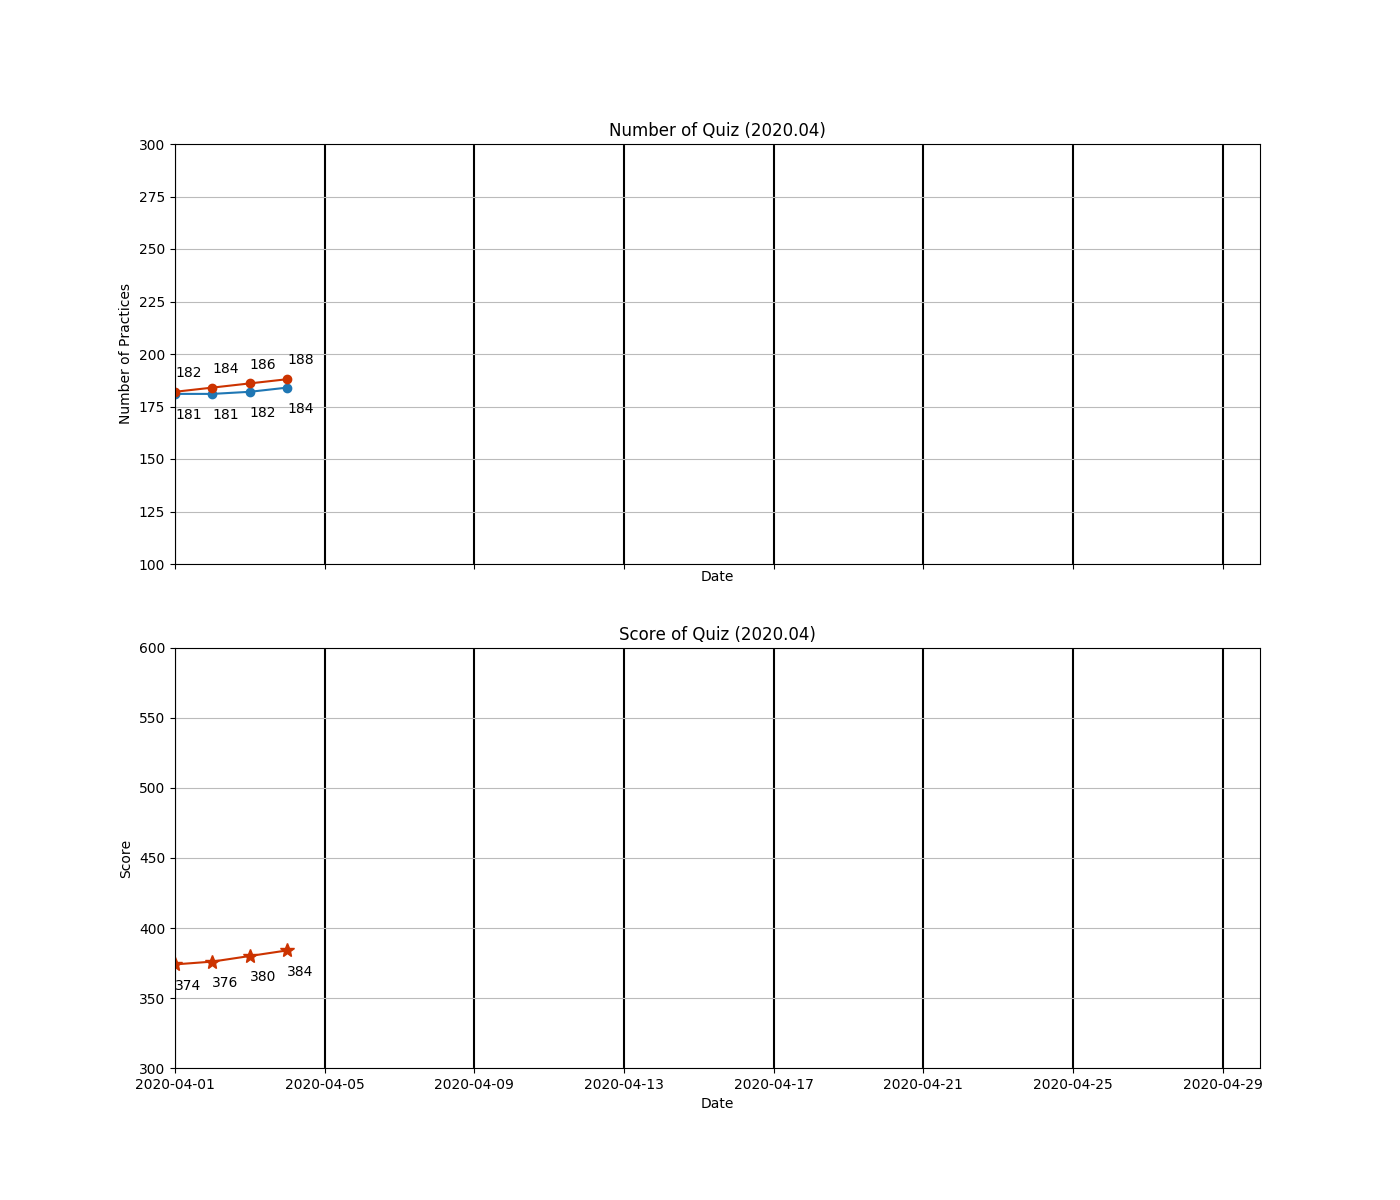
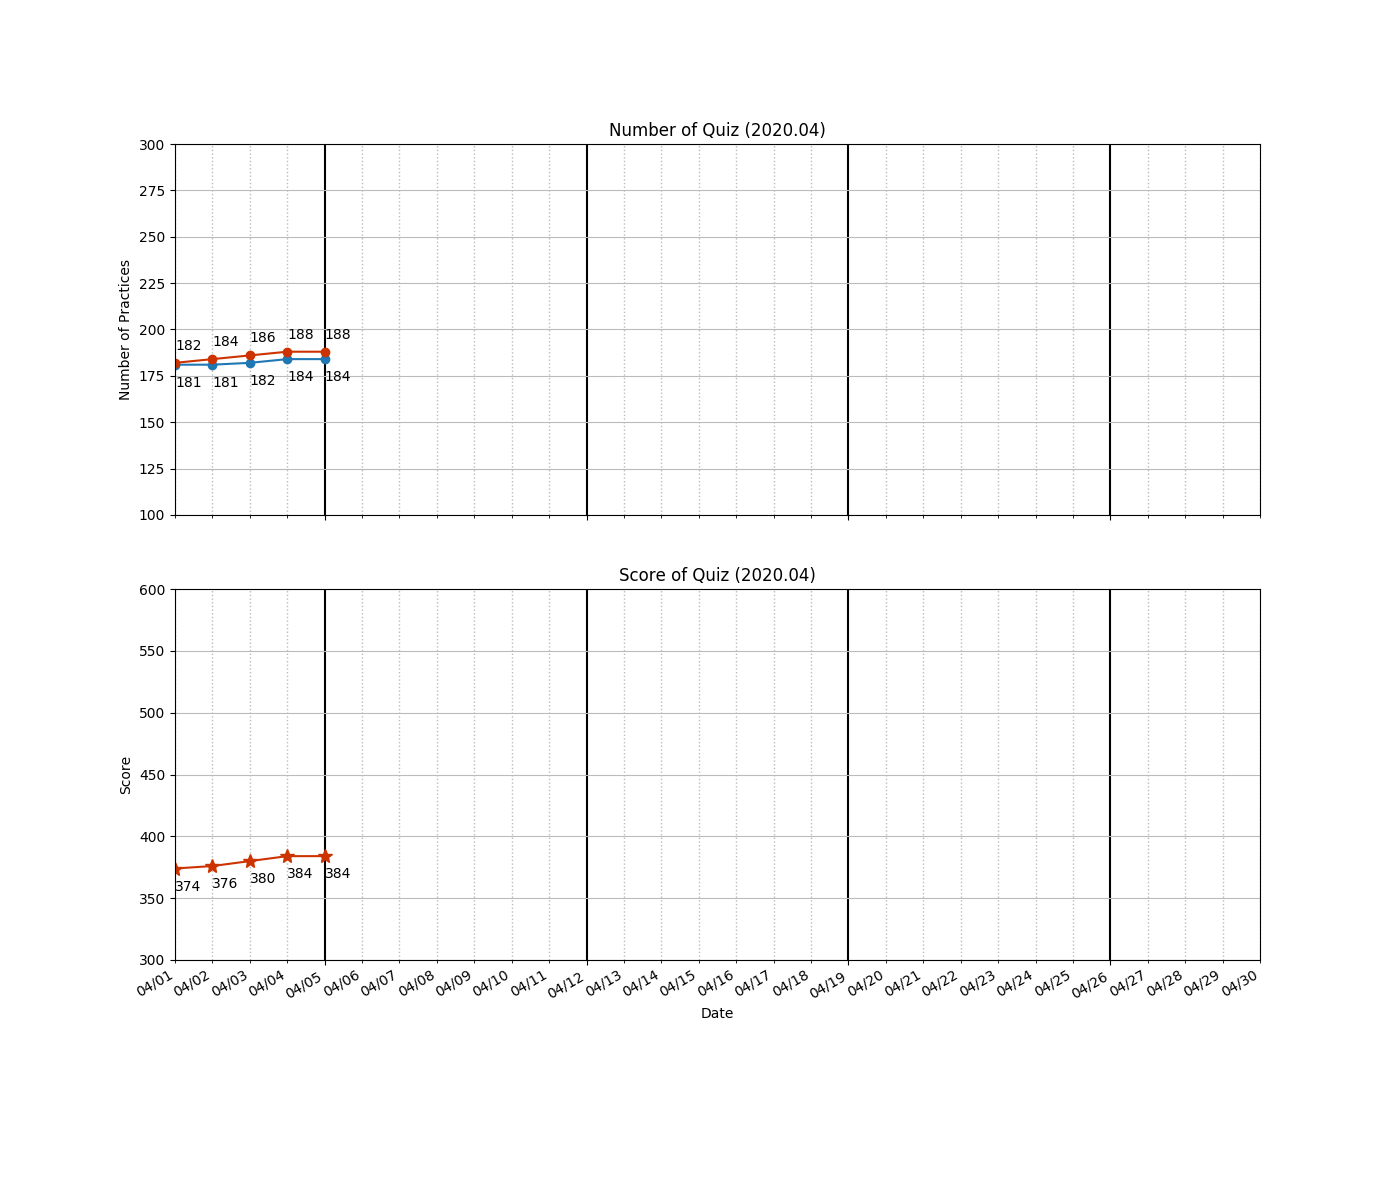
[Visualize] Added day and week vertical dividers

diff --git a/algodraw.py b/algodraw.py
@@ -66,6 +66,7 @@ def writePrepare(today_date, today_value):
 def draw(dates, values):
     fig, ax = plt.subplots(figsize=(14, 8))
     
+    # vertical dividers (week, day)
     xfmt = mdates.DateFormatter("%m/%d")
     xloc1 = mdates.WeekdayLocator(SUNDAY)
     xloc2 = mdates.DayLocator()
@@ -81,7 +82,11 @@ def draw(dates, values):
 
     plt.plot_date(dates, values,'-', marker='o')
     plt.yticks(np.arange(50, 500, step=10))
+
+    # tilt the date in x-axis
     plt.gcf().autofmt_xdate(which='both')
+
+    # add the annotation of the values 
     for i,j in zip(dates, values):
         ax.annotate(str(j),xy=(i, j - 3))
 
@@ -150,6 +155,16 @@ def draw(dates, values):
     axs[1].grid(which='minor', color='#bbbbbb', axis ='x', linestyle=':', linewidth=1)
     axs[1].grid(which='major', color='#bbbbbb', axis ='y')
     axs[1].plot_date(dates, leetscore,'-', marker='*', markersize=10, color='#cc3300')
+
+    xfmt = mdates.DateFormatter("%m/%d")
+    xloc1 = mdates.WeekdayLocator(SUNDAY)
+    xloc2 = mdates.DayLocator()
+    axs[0].xaxis.set_major_formatter(xfmt)
+    axs[0].xaxis.set_major_locator(xloc1) #major: week
+    axs[0].xaxis.set_minor_formatter(xfmt)
+    axs[0].xaxis.set_minor_locator(xloc2) #minor: day
+
+    plt.gcf().autofmt_xdate(which='both')
 
     # leetcode number
     for i,j in zip(dates, leetnumber):
